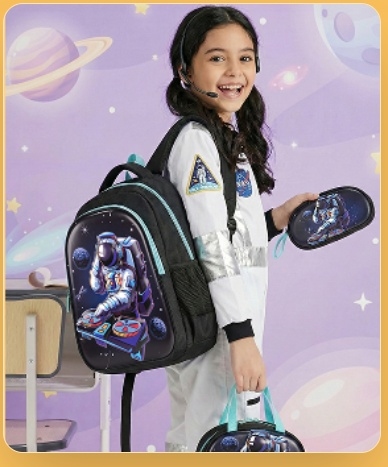
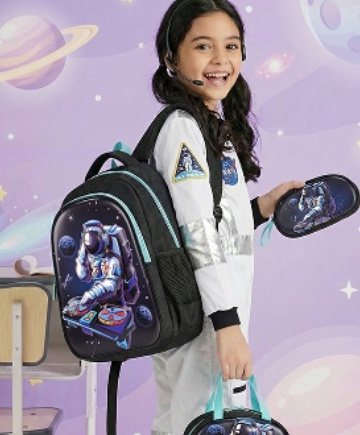
fix(junior): remove baked-in yellow border from Combo set image and use pure white framing

diff --git a/frontend/src/pages/JuniorPage.tsx b/frontend/src/pages/JuniorPage.tsx
@@ -524,7 +524,7 @@ export const JuniorPage = () => {
                 className="h-full relative shrink-0 flex flex-col overflow-hidden rounded-3xl bg-white shadow-xl hover:shadow-2xl transition-all group cursor-pointer border border-gray-100"
               >
                 <Link to={activeCategoryHref} className="absolute inset-0 z-20" />
-                <div className="flex-1 w-full overflow-hidden relative bg-gray-50 flex items-center justify-center">
+                <div className="flex-1 w-full overflow-hidden relative bg-white flex items-center justify-center">
                   <img
                     src={activeCategory.image}
                     alt={activeTab}
